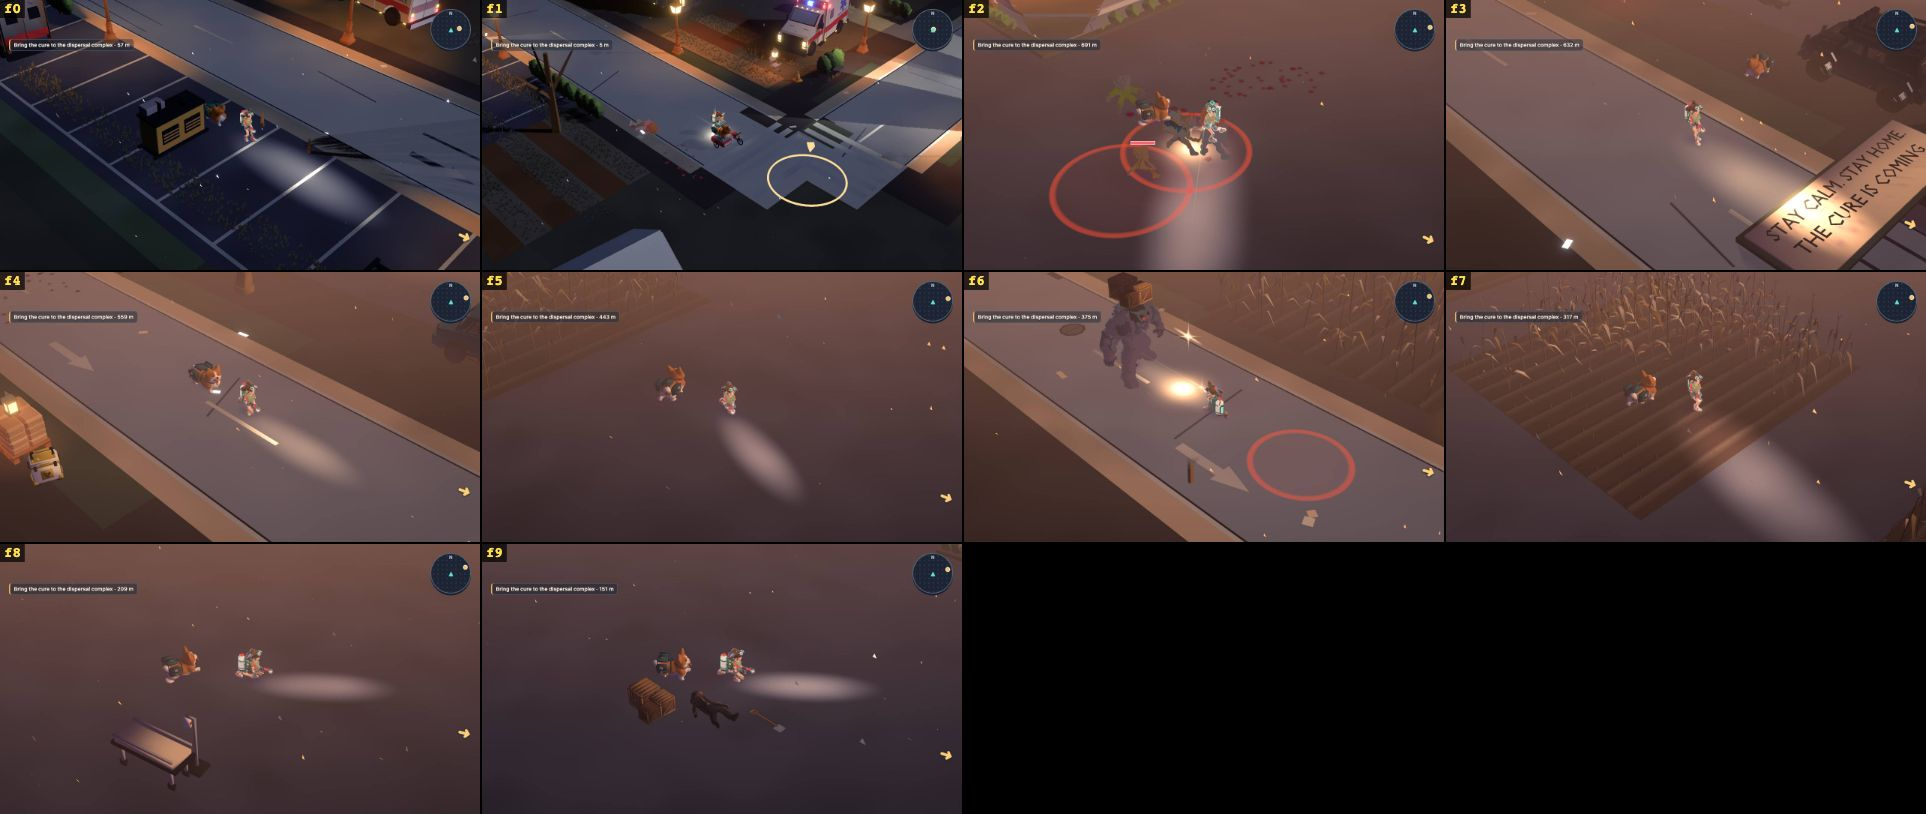
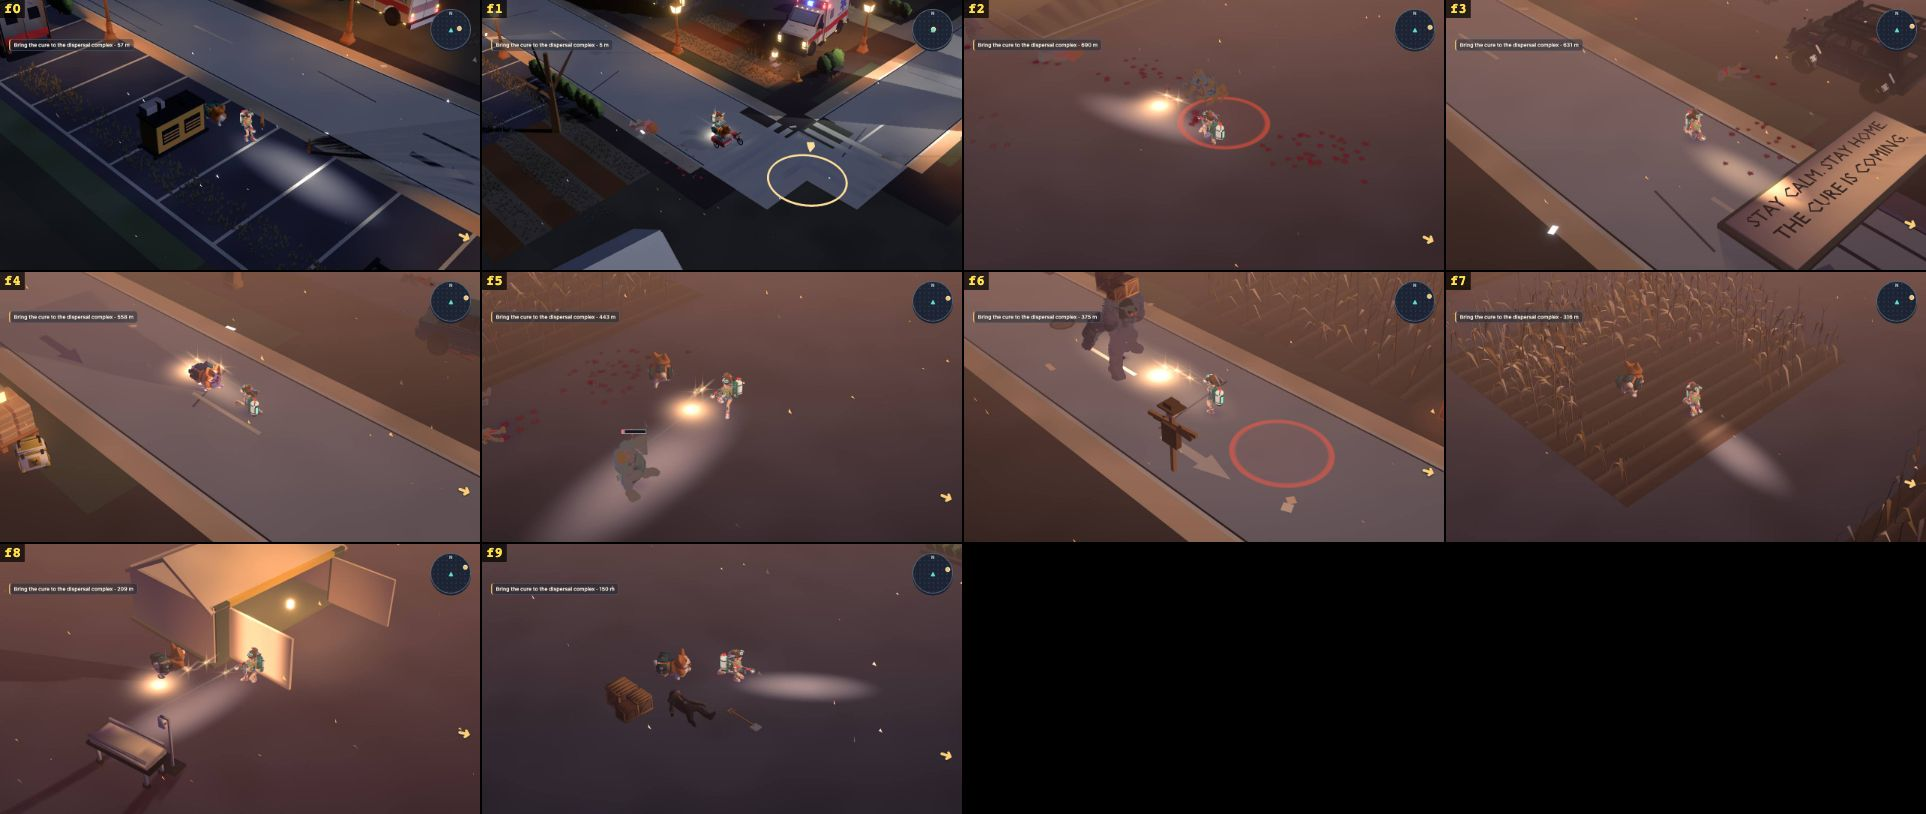
Place hospital entrance in native finale view

diff --git a/src/sim/missions/LevelTenEncounters.ts b/src/sim/missions/LevelTenEncounters.ts
@@ -370,7 +370,7 @@ export class LevelTenEncounters {
       if (group.setPiece === 'propaganda-billboard' && released.includes(group.id) && this.state.billboardFallAt === undefined &&
           Math.hypot(player.transform.x - 3086, player.transform.z - 92) <= 15) this.state.billboardFallAt = w.tick;
       if (group.setPiece === 'field-hospital' && released.includes(group.id) && this.state.hospitalOpenAt === undefined &&
-          Math.hypot(player.transform.x - 3505, player.transform.z - 87) <= 16) this.state.hospitalOpenAt = w.tick;
+          Math.hypot(player.transform.x - 3500, player.transform.z - 50) <= 16) this.state.hospitalOpenAt = w.tick;
       // The pre-staged opening wave can be spent on the approach. Before the
       // charge clock starts, hand off to the next cohort only when that wave
       // is empty; once charging, timed windows continue independently of it.

diff --git a/src/levels/L10/layout.ts b/src/levels/L10/layout.ts
@@ -195,8 +195,8 @@ export function levelTenLayouts(layouts: DistrictLayout[]): DistrictLayout[] {
       lamp.decorLights = true;
     }
     // Field triage on the final approach: quarantine tents and a marked transport.
-    for (const [i, x] of [3505, 3526, 3546].entries()) {
-      const z = i === 0 ? 87 : i === 1 ? 80 : 78;
+    for (const [i, x] of [3500, 3526, 3546].entries()) {
+      const z = i === 0 ? 50 : i === 1 ? 80 : 78;
       beat(`hospital-tent-${i}`, 'prop.l10-field-tent', x, z, [2.2, 1.6, 3.4], i % 2 ? Math.PI : 0);
       beatSolid(`hospital-tent-${i}`, x, z, 1.6, 2.3, 2.8);
     }

diff --git a/docs/reports/s212g2-finale/README.md b/docs/reports/s212g2-finale/README.md
@@ -48,3 +48,5 @@ Two LOW bot trials were discarded. Suppressing remount while the nearby gate rem
 After the solid-contact change, LOW death traces showed repeated Mega hits during first-roadblock recovery. A trial suppressing remount when a visible Mega was within 12 m of the bike reduced deaths from seven to one, but left the bike at the first gate (2,833 riding ticks, 0/4 loops, 306.8 s hangar to gate). It was discarded; the recovery policy needs a way to create space from Mega and return, rather than merely declining to mount.
 
 Camera geometry for the next composition: `View` follows the courier with a 25° perspective camera at radius 19 m, azimuth 45° and polar 54°. At ground level the screen-right axis is proportional to `dx - dz`; thus the second tent trial at (3510, 47), relative to the beat-8 courier at approximately (3503.6, 54.4), lies about 9.7 m to screen right before perspective and object extent. It is outside the roughly 7.5 m half-width of the 16:9 target plane. A scene must be designed around the player's actual lane and camera-facing silhouette, with collision footprints and sightlines checked together. The roadblock walls use fixed colliders (`Physics.addBlocker`), so the crash query's kinematic exclusion does not exclude those walls.
+
+The first hospital tent and its opening trigger were moved to (3500, 50), using the follow-camera projection and measured beat-8 courier position. The updated native HIGH sheet shows a lit open tent entrance at beat 8, with the courier beside its flap; it still needs staged silhouettes and a wider hospital composition. Beat 7 still has no readable underpass. Typecheck, lint, the solid-placement audit (0 offenders), and the world-systems and mission-interactions tests passed for this placement. Full route and final gates remain to be rerun.
